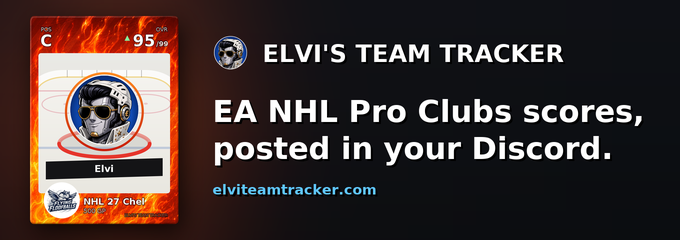
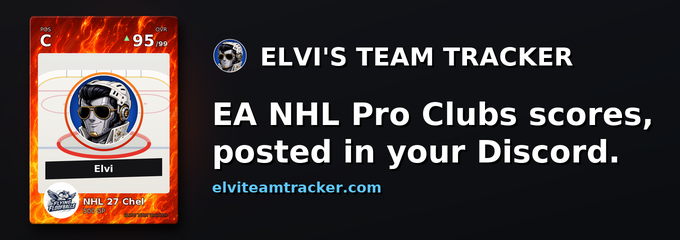
Add the 1024x576 Rich Presence invite image, and keep the generator
The generator is in the repo now rather than a scratch file: the next slot
Discord asks for is one more build() call, and the text auto-fits its width.

Changed region(s): [[0.0, 0.0, 0.9574, 1.0], [0.1235, 0.6708, 0.1853, 0.7292]]

diff --git a/tools-promo-art.py b/tools-promo-art.py
@@ -1,0 +1,128 @@
+"""Promotional art for Elvi's Team Tracker: the fake 95 card on a dark bed,
+sized for whichever Discord slot needs filling."""
+from PIL import Image, ImageDraw, ImageFont, ImageFilter
+import os, sys
+
+CARD  = r"S:\Web\elviteamtracker.com\img\card-elvi-95.png"
+LOGO  = r"S:\Web\elviteamtracker.com\assets\logo-512.png"
+FONTB = r"S:\cheese\EASSS\EASSServer\src\main\resources\fonts\DejaVuSans-Bold.ttf"
+FONTR = r"S:\cheese\EASSS\EASSServer\src\main\resources\fonts\DejaVuSans.ttf"
+OUTDIR = r"S:\Web\elviteamtracker.com\img"
+
+HEAD = ["EA NHL Pro Clubs scores,", "posted in your Discord."]
+BULLETS = ["Automatic box scores, the real final score",
+           "Player cards, leaderboards, head-to-head",
+           "Free, no ads, no premium tier"]
+
+
+def build(out_w, out_h, name, bullets=False, S=2):
+    W, H = out_w * S, out_h * S
+    card = Image.open(CARD).convert("RGBA")
+
+    # base: dark steel, a shade warmer on the left, darker toward the bottom
+    bg = Image.new("RGB", (W, H))
+    px = bg.load()
+    for x in range(W):
+        t = x / (W - 1)
+        r, g, b = 26 + 10 * (1 - t), 30 + 6 * (1 - t), 38 + 4 * (1 - t)
+        for y in range(H):
+            v = 1 - 0.22 * (y / (H - 1))
+            px[x, y] = (int(r * v), int(g * v), int(b * v))
+
+    # a fire glow behind the card only, so the card keeps its own edge
+    glow = Image.new("RGB", (W, H), (0, 0, 0))
+    gd = ImageDraw.Draw(glow)
+    gcx, gcy = int(W * 0.18), H // 2
+    rad0 = int(H * 0.44)
+    for i in range(26, 0, -1):
+        f = i / 26.0
+        rad = int(rad0 * f)
+        gd.ellipse([gcx - rad, gcy - int(rad * 1.25), gcx + rad, gcy + int(rad * 1.25)],
+                   fill=(int(255 * (1 - f) ** 1.5), int(96 * (1 - f) ** 2.2),
+                         int(20 * (1 - f) ** 3)))
+    glow = glow.filter(ImageFilter.GaussianBlur(int(H * 0.07)))
+    bg = Image.blend(bg, glow, 0.42)
+    banner = bg.convert("RGBA")
+
+    # the card, full height inside a margin
+    pad = int(H * 0.068)
+    target_h = H - pad * 2
+    target_w = round(card.width * target_h / card.height)
+    card_s = card.resize((target_w, target_h), Image.LANCZOS)
+    cx, cy = int(W * 0.044), pad
+
+    shadow = Image.new("RGBA", (W, H), (0, 0, 0, 0))
+    shadow.paste(Image.new("RGBA", card_s.size, (0, 0, 0, 200)),
+                 (cx + 4 * S, cy + 8 * S), card_s)
+    banner = Image.alpha_composite(banner, shadow.filter(
+        ImageFilter.GaussianBlur(int(H * 0.023))))
+    banner.paste(card_s, (cx, cy), card_s)
+
+    d = ImageDraw.Draw(banner)
+    tx = cx + target_w + int(W * 0.05)
+    avail = W - tx - int(W * 0.038)
+
+    def fit(lines, path, start, room=None, minimum=10):
+        """Largest size at which every line clears the right margin.
+
+        `room` is the width actually left for THAT line — the brand sits after
+        the logo, so it has less of it than the rest of the block.
+        """
+        room = avail if room is None else room
+        size = start
+        while size > minimum:
+            f = ImageFont.truetype(path, size)
+            if max(d.textlength(t, font=f) for t in lines) <= room:
+                return f
+            size -= 1
+        return ImageFont.truetype(path, minimum)
+
+    logo_px = int(H * 0.15)
+    brand_gap = int(W * 0.018)
+
+    f_head = fit(HEAD, FONTB, int(H * 0.15))
+    f_brand = fit(["ELVI'S TEAM TRACKER"], FONTB, int(H * 0.105),
+                  room=avail - logo_px - brand_gap)
+    f_url = fit(["elviteamtracker.com"], FONTB, int(H * 0.062))
+    f_bul = fit(BULLETS, FONTR, int(H * 0.048)) if bullets else None
+
+    def shadowed(xy, text, font, fill):
+        d.text((xy[0] + 2 * S, xy[1] + 2 * S), text, font=font, fill=(0, 0, 0, 200))
+        d.text(xy, text, font=font, fill=fill)
+
+    logo = Image.open(LOGO).convert("RGBA").resize((logo_px, logo_px), Image.LANCZOS)
+
+    line_h = int(f_head.size * 1.22)
+    gap = int(H * 0.09)
+    block = logo_px + gap + line_h * 2
+    if bullets:
+        block += int(H * 0.055) + int(f_bul.size * 1.75) * len(BULLETS)
+    block += int(H * 0.055) + int(f_url.size * 1.2)
+    top = (H - block) // 2
+
+    banner.paste(logo, (tx, top), logo)
+    shadowed((tx + logo_px + brand_gap, top + (logo_px - f_brand.size) // 2 - 2 * S),
+             "ELVI'S TEAM TRACKER", f_brand, (255, 255, 255, 255))
+
+    y = top + logo_px + gap
+    for line in HEAD:
+        shadowed((tx, y), line, f_head, (255, 255, 255, 255))
+        y += line_h
+
+    if bullets:
+        y += int(H * 0.04)
+        for b in BULLETS:
+            d.ellipse([tx + 2 * S, y + f_bul.size // 2 - 2 * S,
+                       tx + 8 * S, y + f_bul.size // 2 + 4 * S], fill=(255, 122, 40, 255))
+            shadowed((tx + int(W * 0.022), y), b, f_bul, (205, 214, 224, 255))
+            y += int(f_bul.size * 1.75)
+
+    shadowed((tx, y + int(H * 0.035)), "elviteamtracker.com", f_url, (96, 200, 255, 255))
+
+    out = os.path.join(OUTDIR, name)
+    banner.convert("RGB").resize((out_w, out_h), Image.LANCZOS).save(out, "PNG", optimize=True)
+    print("wrote %s  %dx%d  %d bytes" % (out, out_w, out_h, os.path.getsize(out)))
+
+
+build(680, 240, "banner-680x240.png")
+build(1024, 576, "invite-1024x576.png", bullets=True)
